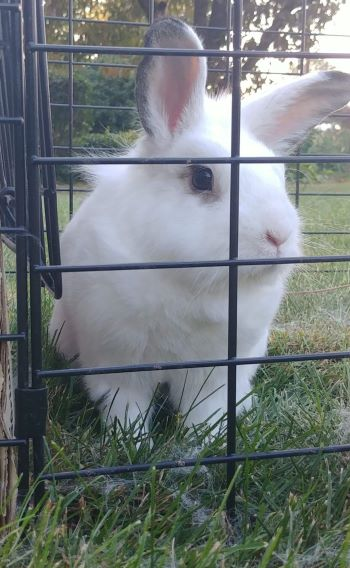
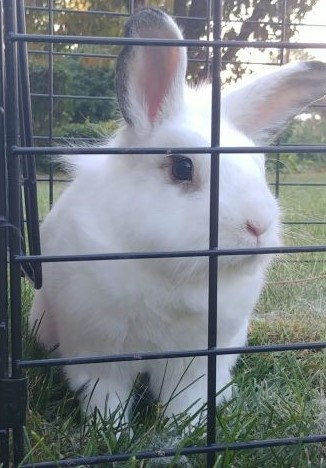
added another bunny pic, and styling

diff --git a/bunny.html b/bunny.html
@@ -50,8 +50,8 @@
         <h1>Teemo Pictures!</h1>
     <img id="teemo2" src="./images/teemo1.jpg" alt="bunny pic">
     <img id="teemo5" src="./images/teemo4.jpg" alt="bunny pic">
-    <img id="teemo3" src="./images/teemo2.jpg" alt="bunny pic">
     <img id="teemo6" src="./images/teemo5.jpg" alt="bunny pic">
+    <img id="teemo3" src="./images/teemo2.jpg" alt="bunny pic">
     <img id="teemo7" src="./images/teemo6.jpg" alt="bunny pic">
     <img id="teemo4" src="./images/teemo3.jpg" alt="bunny pic">
     <img id="teemo8" src="./images/teemo7.jpg" alt="bunny pic">
@@ -59,7 +59,8 @@
     <img id="teemo12" src="./images/teemo11.jpg" alt="bunny pic">
     <img id="teemo10" src="./images/teemo9.jpg" alt="bunny pic">
     <img id="teemo11" src="./images/teemo10.jpg" alt="bunny pic">
-    </div>
+    <img id="teemo13" src="./images/teemo12.jpg" alt="bunny pic">
+  </div>
 </body>
 
 </html>

diff --git a/bootstrap.css b/bootstrap.css
@@ -305,6 +305,13 @@ ul {
     border-radius: 20px;
     width: 50%;
 }
+#teemo13{ 
+    border: 8px dotted darkorchid;
+    padding: 5px;
+    margin: 5px;
+    border-radius: 20px;
+    width: 50%;
+}
 
 @media screen and (max-width: 600px) {
     .link {
